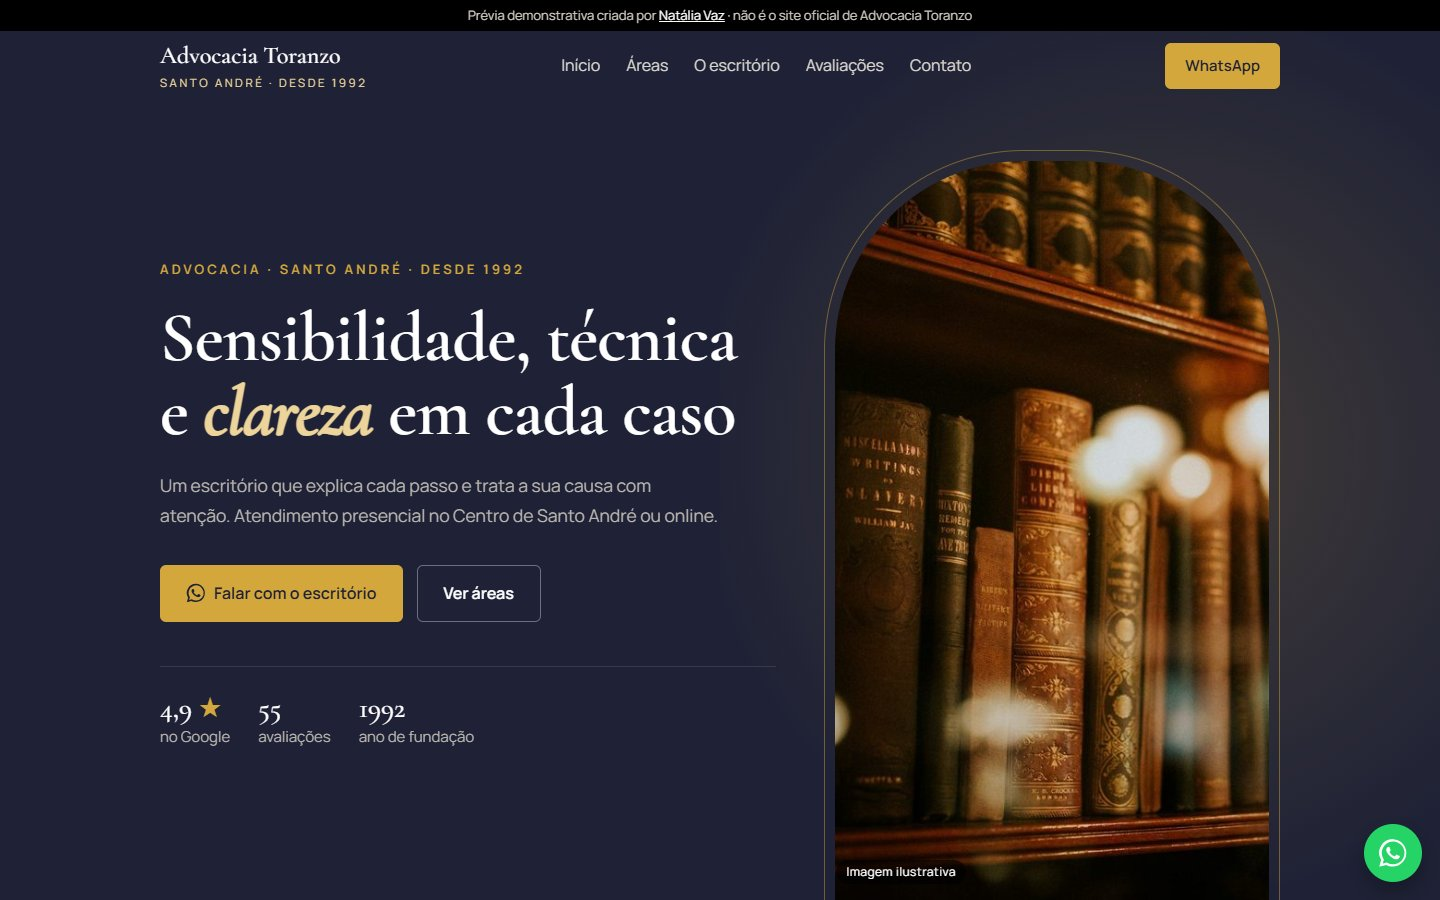
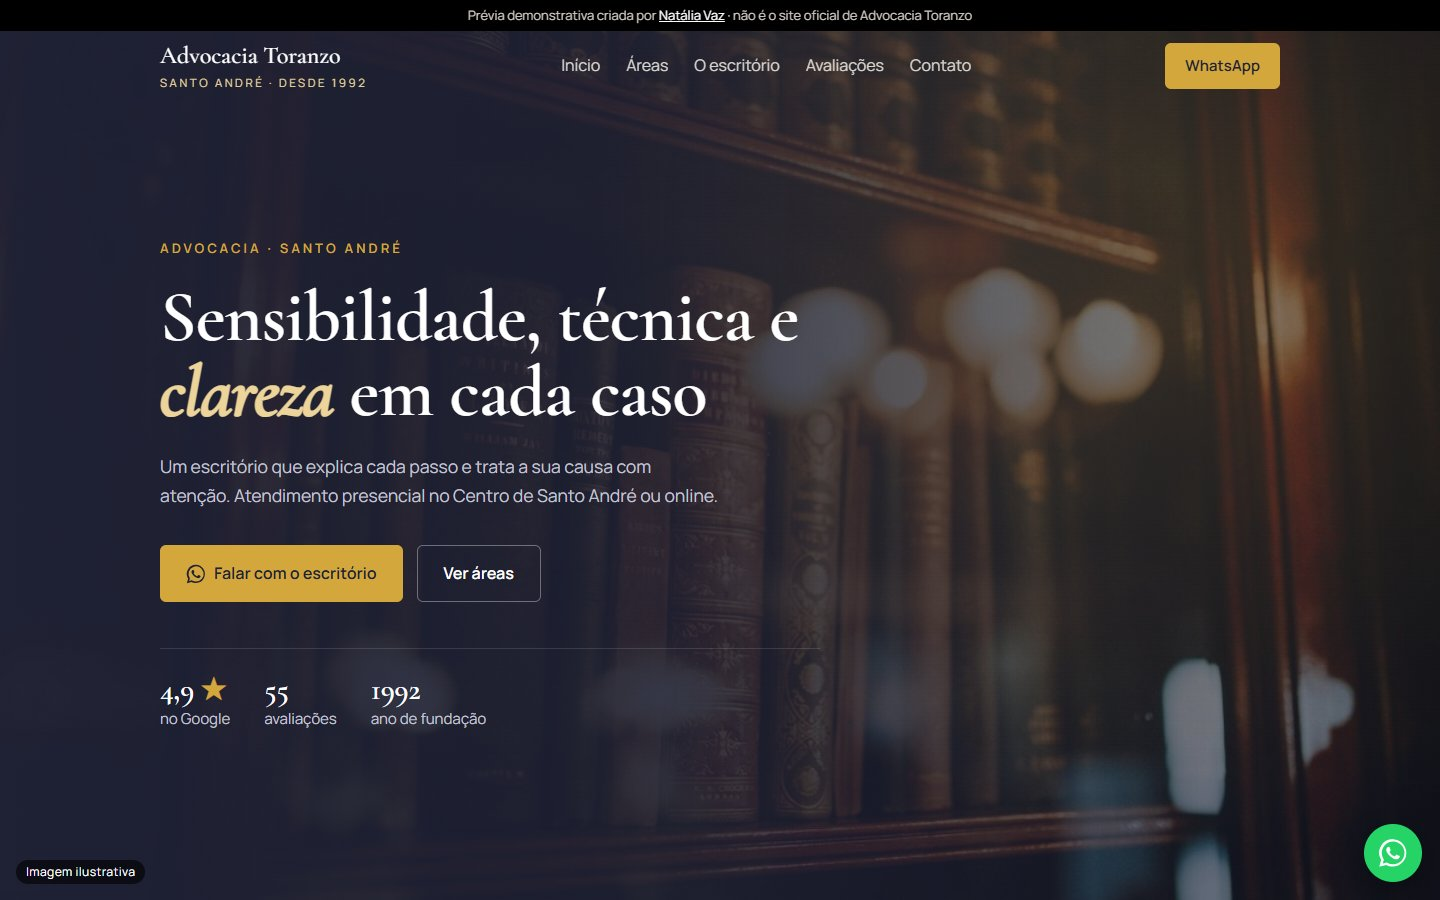
Prévia Toranzo: hero com foto ilustrativa em tela cheia

diff --git a/advocacia-toranzo/index.html b/advocacia-toranzo/index.html
@@ -92,25 +92,21 @@ a{color:inherit}
 }
 @media (max-width:420px){.nav-right .btn.sm{display:none}}
 
-/* hero (SPLIT com arco) */
-.hero{position:relative;background:var(--dark);color:#e7e3dc;overflow:hidden;padding:148px 0 0}
-.hero::after{content:"";position:absolute;right:-10%;top:-20%;width:60%;height:140%;background:radial-gradient(circle,color-mix(in srgb,var(--accent) 20%,transparent),transparent 60%);pointer-events:none}
-.hero .wrap{position:relative;z-index:1;display:grid;grid-template-columns:1.15fr .85fr;gap:48px;align-items:end}
-.hero-text{padding-bottom:96px}
-.hero h1{font-family:var(--serif);font-weight:400;color:#fff;font-size:clamp(40px,5.6vw,66px);line-height:1.06;margin:18px 0 22px}
+/* hero (TYPOGRAPHIC: texto à esquerda sobre foto ilustrativa em tela cheia, escurecida na cor da ID) */
+.hero{position:relative;background:linear-gradient(90deg,rgba(31,34,54,.96) 0%,rgba(31,34,54,.86) 48%,rgba(31,34,54,.45) 100%),url(assets/hero.jpg) center/cover var(--dark);color:#e4e5ee;overflow:hidden;padding:168px 0 104px;min-height:100vh;display:flex;align-items:center}
+.hero::before{content:"";position:absolute;inset:0;background:radial-gradient(circle at 85% 25%,rgba(212,167,60,.16),transparent 45%);pointer-events:none}
+.hero>.ilustr{left:16px;bottom:16px}
+.hero .wrap{position:relative;z-index:1}
+.hero-text{max-width:660px}
+.hero h1{font-family:var(--serif);font-weight:600;color:#fff;font-size:clamp(42px,5.6vw,72px);line-height:1.04;margin:18px 0 22px;letter-spacing:-.01em}
 .hero h1 i{color:var(--accent-soft)}
-.hero p{color:#b9b6b0;max-width:32em;margin-bottom:34px}
+.hero p{color:#c2c4d4;max-width:32em;margin-bottom:34px}
 .ctas{display:flex;flex-wrap:wrap;gap:14px}
-.facts{display:flex;flex-wrap:wrap;gap:28px;margin-top:44px;padding-top:26px;border-top:1px solid rgba(255,255,255,.1);font-size:15px;color:#b9b6b0}
-.facts b{display:block;font-family:var(--serif);font-weight:400;font-size:28px;color:#fff;line-height:1.1}
+.facts{display:flex;flex-wrap:wrap;gap:34px;margin-top:46px;padding-top:24px;border-top:1px solid rgba(255,255,255,.12);font-size:15px;color:#c2c4d4}
+.facts b{display:block;font-family:var(--serif);font-weight:600;font-size:30px;color:#fff;line-height:1.1}
 .facts b span{color:var(--accent)}
-.hero-photo{position:relative}
-.hero-photo img{width:100%;aspect-ratio:3/4;object-fit:cover;border-radius:200px 200px 0 0}
 @media (max-width:860px){
-  .hero{padding-top:128px}
-  .hero .wrap{grid-template-columns:1fr;gap:8px}
-  .hero-text{padding-bottom:40px}
-  .hero-photo{max-width:360px;margin-inline:auto;width:100%}
+  .hero{padding:140px 0 72px;min-height:0;background:linear-gradient(180deg,rgba(31,34,54,.82) 0%,rgba(31,34,54,.92) 100%),url(assets/hero.jpg) center/cover var(--dark)}
 }
 
 /* seções */
@@ -247,11 +243,6 @@ html{--gap-secao:clamp(64px,8vw,96px)}
 .about-body{grid-area:body;align-self:start}
 @media (max-width:860px){.about{grid-template-areas:"head" "img" "body";row-gap:28px}.about-head h2{margin-bottom:0}}
 .hero h1,.head h2,.about h2{font-weight:600;letter-spacing:-.01em}
-.hero h1{font-size:clamp(42px,5.6vw,70px)}
-@media (min-width:861px){.hero{min-height:100vh;display:flex;flex-direction:column;justify-content:flex-end}.hero .wrap{align-items:stretch}.hero-text{align-self:center;padding-bottom:48px}.hero-photo img{aspect-ratio:auto;height:calc(100vh - 150px);min-height:560px}}
-.hero-photo img{border:1px solid rgba(212,167,60,.45);border-bottom:0;padding:10px 10px 0}
-.hero-photo .ilustr{bottom:16px}
-@media (max-width:860px){.hero::after{display:none}}
 .partners{display:grid;gap:16px;max-width:460px;width:100%}
 .partner{display:flex;gap:18px;align-items:center;background:var(--brand);color:#cfd2e2;border-radius:12px;padding:26px}
 .partner .ico{flex:none;display:grid;place-items:center;background:rgba(212,167,60,.16);color:var(--accent);width:54px;height:54px;border-radius:50%}
@@ -326,7 +317,7 @@ html{--gap-secao:clamp(64px,8vw,96px)}
 <header class="hero" id="inicio">
   <div class="wrap">
     <div class="hero-text reveal">
-      <span class="kicker">Advocacia · Santo André · desde 1992</span>
+      <span class="kicker">Advocacia · Santo André</span>
       <h1>Sensibilidade, técnica e <i>clareza</i> em cada caso</h1>
       <p>Um escritório que explica cada passo e trata a sua causa com atenção. Atendimento presencial no Centro de Santo André ou online.</p>
       <div class="ctas">
@@ -339,11 +330,8 @@ html{--gap-secao:clamp(64px,8vw,96px)}
         <div><b>1992</b>ano de fundação</div>
       </div>
     </div>
-    <div class="hero-photo reveal">
-      <img src="assets/hero.jpg" alt="Estante de livros jurídicos (imagem ilustrativa)">
-      <span class="ilustr">Imagem ilustrativa</span>
-    </div>
   </div>
+  <span class="ilustr">Imagem ilustrativa</span>
 </header>
 
 <section class="section" id="servicos">
